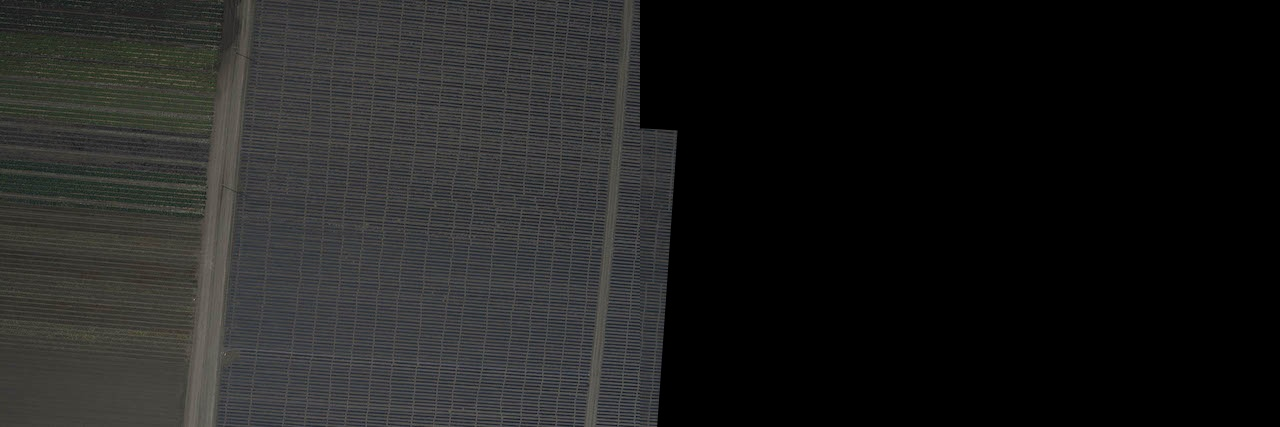
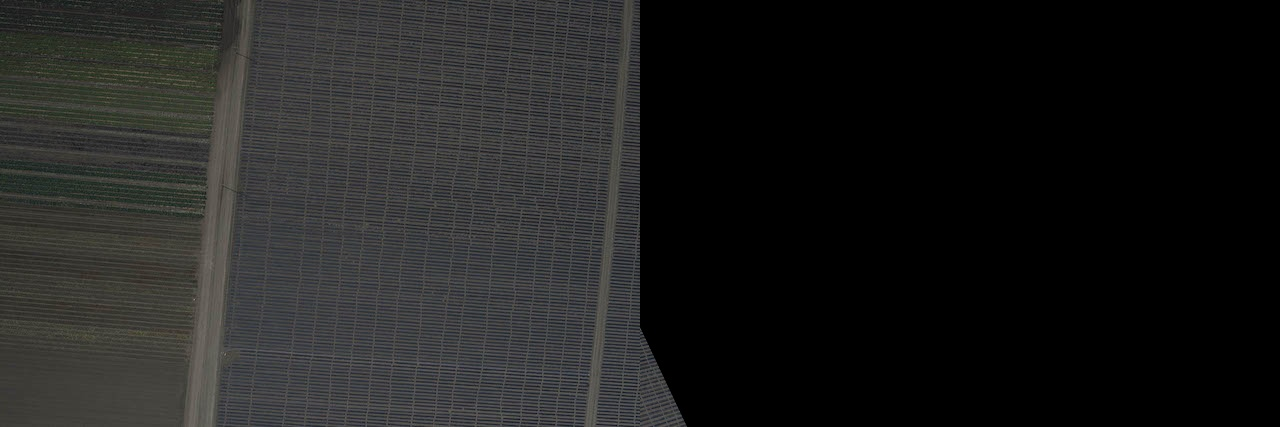
Minor code changes and documentation

Changed region(s): [[0.5, 0.3044, 0.5625, 1.0]]

diff --git a/projeto 4/panoramic_image.py b/projeto 4/panoramic_image.py
@@ -9,48 +9,38 @@ class PanoramicImage:
         self.key_points = None
         self.descriptor = None
 
-    def reset_to_original_image(self):
+    def reset_to_original_image(self) -> None:
+        """
+        Reseta a imagem atualmente sendo trabalhada para a original
+        """
         self.image = self.original_image
 
-    def show(self):
-        cv2.imshow('image', self.image)
-        # cv2.waitKey(0)
-
     def to_gray_scale(self):
+        """
+        Cria uma versão em preto e branco da imagem
+        :return: imagem em preto e branco
+        """
         return cv2.cvtColor(self.image, cv2.COLOR_BGR2GRAY)
 
-    def sift(self) -> None:
-        sift = cv2.SIFT()
-        self.key_points = sift.detect(self.image, None)
+    def ransac_matrix(self, other_image: 'PanoramicImage', matches):
+        """
+        Estima a matriz de homografia
+        :param other_image: imagem a ser comparada
+        :param matches: semelhanças encontradas
+        :return: matriz de homografia
+        """
+        points1 = np.float32([self.key_points[m.queryIdx].pt for m in matches]).reshape(-1, 1, 2)
+        points2 = np.float32([other_image.key_points[m.trainIdx].pt for m in matches]).reshape(-1, 1, 2)
+        homography_matrix, _ = cv2.findHomography(points1, points2, cv2.RANSAC, 5.0)
+        return homography_matrix
 
-    def compare_sift_match(self, other_image: 'PanoramicImage', threshold: int):
-        bf = cv2.BFMatcher(cv2.NORM_L2, crossCheck=True)
-        matches = bf.match(self.descriptor, other_image.descriptor)
-
-        # Mantém só as melhores correspondências
-        matches = [x for x in matches if x.distance > threshold]
-        return matches
-
-    def ransac_matches(self, other_image: 'PanoramicImage', matches, min_matches: int):
-        image = self.image
-        M = None
-
-        if len(matches) >= min_matches:
-            points1 = np.float32([self.key_points[m.queryIdx].pt for m in matches]).reshape(-1, 1, 2)
-            points2 = np.float32([other_image.key_points[m.trainIdx].pt for m in matches]).reshape(-1, 1, 2)
-
-            M, mask = cv2.findHomography(points1, points2, cv2.RANSAC, 5.0)
-
-            last_row = self.image.shape[0] - 1
-            last_col = self.image.shape[1] - 1
-            points = np.float32([[0, 0], [0, last_row], [last_col, last_row], [last_col, 0]]).reshape(-1, 1, 2)
-            dst = cv2.perspectiveTransform(points, M)
-
-            image = cv2.polylines(other_image.image, [np.int32(dst)], True, 255, 3, cv2.LINE_AA)
-
-        return image, M
-
-    def panoramic_merge(self, other_image: 'PanoramicImage', M):
+    def merge_panoramic(self, other_image: 'PanoramicImage', homography_matrix):
+        """
+        Casa duas imagens para formar uma foto panorâmica
+        :param other_image: imagem a casar
+        :param homography_matrix: matriz de homografia
+        :return: imagem panorâmica
+        """
         rows_1 = self.image.shape[0]
         cols_1 = self.image.shape[1]
         rows_2 = other_image.image.shape[0]
@@ -59,12 +49,18 @@ class PanoramicImage:
         result_image_rows = max(rows_1, rows_2)
         result_image_cols = cols_1 + cols_2
 
-        result = cv2.warpPerspective(self.image, M, (result_image_cols, result_image_rows))
+        result = cv2.warpPerspective(self.image, homography_matrix, (result_image_cols, result_image_rows))
         result[0:result_image_rows, 0:cols_2] = other_image.image
 
         return result
 
     def image_matches(self, other_image: 'PanoramicImage', max_draw=15):
+        """
+        Desenha as duas imagens e suas semelhanças
+        :param other_image: imagem a ser comparada
+        :param max_draw: quantidade máxima de semelhanças a serem desenhadas
+        :return:
+        """
         bf = cv2.BFMatcher(cv2.NORM_HAMMING, crossCheck=True)
         matches = bf.match(self.descriptor, other_image.descriptor)
         result = np.zeros(shape=(self.image.shape[0], self.image.shape[1] + other_image.image.shape[1]))

diff --git a/projeto 4/algorithms.py b/projeto 4/algorithms.py
@@ -3,19 +3,25 @@ from panoramic_image import PanoramicImage
 
 
 class Algorithm:
+    """
+    Classe de base para as classes que implementam os algoritmos de descritores
+    """
 
     def set_descriptor(self, extractor, image: PanoramicImage, key_points) -> None:
         key_points, descriptor = extractor.compute(image.image, key_points)
         image.key_points = key_points
         image.descriptor = descriptor
 
-    def match(self, bf, image1: PanoramicImage, image2: PanoramicImage, threshold: int) -> any:
-        matches = bf.match(image1.descriptor, image2.descriptor)
-        matches = [x for x in matches if x.distance > threshold]
+    def match(self, bf, image1: PanoramicImage, image2: PanoramicImage, threshold: float) -> any:
+        matches = bf.knnMatch(image1.descriptor, image2.descriptor, k=2)
+        matches = [a for (a, b) in matches if a.distance < b.distance * threshold]
         return matches
 
 
 class Brief(Algorithm):
+    """
+    Implementa o descritor e o match das imagens usando o algoritmo BRIEF
+    """
 
     def set_descriptor(self, panoramic_image: PanoramicImage) -> None:
         star = cv2.xfeatures2d.StarDetector_create()
@@ -23,18 +29,21 @@ class Brief(Algorithm):
         key_points = star.detect(panoramic_image.image, None)
         super().set_descriptor(brief, panoramic_image, key_points)
 
-    def get_matches(self, image1: PanoramicImage, image2: PanoramicImage, threshold: int) -> any:
-        bf = cv2.BFMatcher(cv2.NORM_HAMMING, crossCheck=True)
+    def get_matches(self, image1: PanoramicImage, image2: PanoramicImage, threshold: float) -> any:
+        bf = cv2.BFMatcher(cv2.NORM_HAMMING, crossCheck=False)
         return super().match(bf, image1, image2, threshold)
 
 
 class Orb(Algorithm):
+    """
+    Implementa o descritor e o match das imagens usando o algoritmo ORB
+    """
 
     def set_descriptor(self, panoramic_image: PanoramicImage) -> None:
         orb = cv2.ORB_create()
         key_points = orb.detect(panoramic_image.image, None)
         super().set_descriptor(orb, panoramic_image, key_points)
 
-    def get_matches(self, image1: PanoramicImage, image2: PanoramicImage, threshold: int) -> any:
-        bf = cv2.BFMatcher(cv2.NORM_HAMMING, crossCheck=True)
+    def get_matches(self, image1: PanoramicImage, image2: PanoramicImage, threshold: float) -> any:
+        bf = cv2.BFMatcher(cv2.NORM_HAMMING, crossCheck=False)
         return super().match(bf, image1, image2, threshold)

diff --git a/projeto 4/main.py b/projeto 4/main.py
@@ -7,16 +7,25 @@ from panoramic_image_generator import PanoramicImageGenerator
 def generate_example(threshold):
     """
     Gera todas as imagens de exemplo do diretório pictures
+
     """
+    # Gera para cada algoritmo todos os resultados
     for algorithm_name in ['orb', 'brief']:
         algorithm = get_algorithm(algorithm_name)
         generator = PanoramicImageGenerator(algorithm, './results/{0}/'.format(algorithm_name), threshold)
+
+        # Gera todas as imagens de exemplo
         for i in range(1, 6):
             base_filename = "./pictures/foto{0}".format(i)
             generator.generate_image(base_filename + "A.jpg", base_filename + "B.jpg", 'foto{0}'.format(i))
 
 
 def get_algorithm(algorithm_name: str):
+    """
+    Retorna o algoritmo correspondente ao nome dado
+    :param algorithm_name: nome do algoritmo
+    :return: objeto do algoritmo a ser usado para gerar o descritor
+    """
     if algorithm_name == 'orb':
         return Orb()
     elif algorithm_name == 'brief':
@@ -28,14 +37,22 @@ def get_algorithm(algorithm_name: str):
 
 def main():
     """
+    Programa que une duas imagens para criar uma panorâmica. Há duas formas de usar esse programa:
+    Opção 1: parâmetros "example THRESHOLD", onde THRESHOLD é um float que indica o limiar para selecionar as correspondências
+    Opção 2: parâmetros "in1 in2 algoritmo limiar dir_saida arq_saida", onde:
+        1. in1 e in2 são o path para os dois arquivos de imagens;
+        2. algoritmo é o nome do algoritmo a ser usado (brief ou orb)
+        3. limiar é o valor mínimo da % da diferença da distância para selecionar a correspondência
+        4. dir_saida é o diretório de saída do resultado (deve ter / no final)
+        5. arq_saida é o nome do arquivo de saída, sem a extensão
     """
     if sys.argv[1] == 'example':
-        generate_example(int(sys.argv[2]))
+        generate_example(float(sys.argv[2]))
     else:
         (_, image_path1, image_path2, algorithm_name, threshold, output_dir, output_filename) = sys.argv
 
         algorithm = get_algorithm(algorithm_name)
-        generator = PanoramicImageGenerator(algorithm, output_dir, int(threshold))
+        generator = PanoramicImageGenerator(algorithm, output_dir, float(threshold))
         generator.generate_image(image_path1, image_path2, output_filename)
 
 

diff --git a/projeto 4/panoramic_image_generator.py b/projeto 4/panoramic_image_generator.py
@@ -6,12 +6,18 @@ from panoramic_image import PanoramicImage
 
 class PanoramicImageGenerator:
 
-    def __init__(self, algorithm: Algorithm, result_dir: str, threshold: int):
+    def __init__(self, algorithm: Algorithm, result_dir: str, threshold: float):
         self.algorithm = algorithm
         self.result_dir = result_dir
         self.threshold = threshold
 
-    def generate_image(self, image_1_path: str, image_2_path: str, result_filename: str):
+    def generate_image(self, image_1_path: str, image_2_path: str, result_filename: str) -> None:
+        """
+        Gera uma image panorâmica
+        :param image_1_path: caminho para a primeira imagem
+        :param image_2_path: caminho para a segunda imagem
+        :param result_filename: nome base do arquivo de imagem resultante
+        """
         image1 = PanoramicImage(image_1_path)
         image2 = PanoramicImage(image_2_path)
 
@@ -37,20 +43,18 @@ class PanoramicImageGenerator:
         image2.image = gray_image_2
 
         # Passo 5
+        # Se teve a quantidade mínima de matches, continua
         min_matches = 4
-        _, M = image1.ransac_matches(image2, matches, min_matches)
-
-        # Caso em que as imagens não são semelhantes o bastante para uni-las
-        if M is None:
+        if len(matches) < min_matches:
             print("As imagens não são semelhantes o suficiente, %d (esperado %d)" % (len(matches), min_matches))
 
-        # Tem a quantidade mínima de semelhanças exigida
         else:
+            homography_matrix = image1.ransac_matrix(image2, matches)
 
             # Passos 6 e 7
             image1.reset_to_original_image()
             image2.reset_to_original_image()
-            panoramic_image = image1.panoramic_merge(image2, M)
+            panoramic_image = image1.merge_panoramic(image2, homography_matrix)
 
             # Escreve os resultados em arquivo
             base_path = self.result_dir + result_filename
